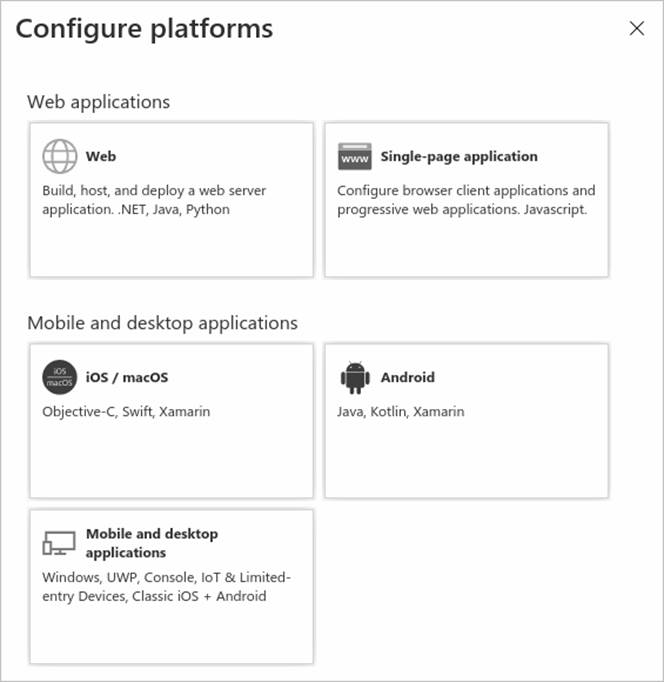
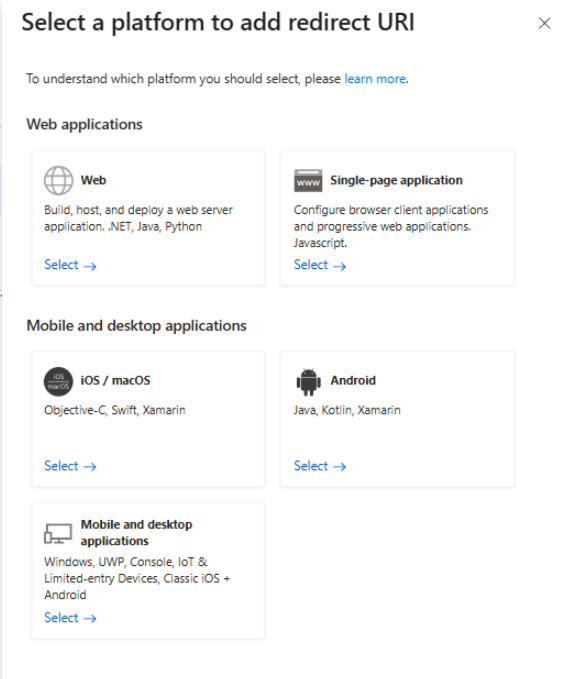
Merge pull request #209 from v-absamim/lab19-fixes
Fix Lab 19: Register an application

Pull request: Fix Lab 19: Register an application
Per-lab fix split out from `lab1-fixes`.

Scope: Lab 19 - Register an application.

diff --git a/Instructions/Labs/Lab_19_RegisterAnApplication.md b/Instructions/Labs/Lab_19_RegisterAnApplication.md
@@ -11,7 +11,7 @@ lab:
 
 # Lab 19 - Register an application
 
-### Login type = Microsoft 365 admin
+### Login type: Microsoft 365 admin
 
 #### Estimated time: 30 minutes
 
@@ -21,25 +21,25 @@ lab:
 
 Registering your application establishes a trust relationship between your app and the Microsoft identity platform. The trust is unidirectional: Your app trusts the Microsoft identity platform—not the other way around.
 
-1. Sign in to [https://entra.microsoft.com](https://entra.microsoft.com) using the provided Administrator account.
+1. Sign in to **Microsoft Entra admin center** at **`https://entra.microsoft.com`** as your Global Administrator.
 
-2. Open the portal menu and then select **Microsoft Entra ID**.
+    > **Note:** You may be prompted to complete Multi-Factor Authentication (MFA) during sign-in. Follow the prompts to configure or verify your authentication method before continuing.
 
-3. On the **Identity** menu, under **Applications**, select **App registrations.**
+1. In the left navigation, under **Entra ID**, select **App registrations**.
 
-4. On the **App registrations** page, on the menu, select **+ New registration**.
+1. On the **App registrations** page, on the menu, select **+ New registration**.
 
-5. On the **register an application** blade, register an app named **Demo app** using the default values. You do not need to enter the redirect URI.
+1. On the **Register an application** blade, register an app named **Demo app** using the default values. You do not need to enter the redirect URI.
 
     ![Screen image displaying the Register an application page with the name and default settings highlighted](./media/lp3-mod3-register-an-application.png)
 
-6. Select the **Register** button.
+1. Select the **Register** button.
 
-7. When complete, you will be directed to the **Demo app** page.
+1. When complete, you will be directed to the **Demo app** page.
 
 #### Task 2 - Configure platform settings
 
-Settings for each application type, including redirect URIs, are configured in **Platform configurations** in the Azure portal. Some platforms, like **Web** and **Single-page applications**, require you to manually specify a redirect URI. For other platforms, like mobile and desktop, you can select from redirect URIs generated for you when you configure their other settings.
+Settings for each application type, including redirect URIs, are configured in **Platform configurations** in the Microsoft Entra admin center. Some platforms, like **Web** and **Single-page applications**, require you to manually specify a redirect URI. For other platforms, like mobile and desktop, you can select from redirect URIs generated for you when you configure their other settings.
 
 To configure application settings based on the platform or device you're targeting:
 
@@ -47,11 +47,11 @@ Add and modify redirect URIs for your registered applications by configuring the
 
 1. Select your application in **App registrations** in the Microsoft Entra admin center.
 
-2. Under **Manage**, select **Authentication**.
+1. Under **Manage**, select **Authentication (Preview)**.
 
-3. Under **Platform configurations**, select **+ Add a platform**.
+1. Under **Redirect URI configurations**, select **+ Add Redirect URI**.
 
-4. In **Configure platforms**, select the tile for your application type (platform) to configure its settings.
+1. In **Select a platforms to add redirect URI**, select the tile for your application type (platform) to configure its settings.
 
     ![Screenshot of the Platform configuration pane in the Azure portal](./media/configure-platforms.png)
 
@@ -63,11 +63,11 @@ Add and modify redirect URIs for your registered applications by configuring the
     | Android| Enter the app **Package name**, which you can find in the AndroidManifest.xml file, and generate and enter the **Signature hash**. A redirect URI is generated for you when you specify these settings.|
     | Mobile and desktop applications| Select one of the **Suggested redirect URIs** or specify a **Custom redirect URI**. For desktop applications, we recommend: [https://login.microsoftonline.com/common/oauth2/nativeclient](https://login.microsoftonline.com/common/oauth2/nativeclient). Select this platform for mobile applications that aren't using the latest Microsoft Authentication Library (MSAL) or are not using a broker. Also select this platform for desktop applications.|
 
-5. Select **Web** as your platform.
+1. Select **Web** as your platform.
 
-6. Enter `https://localhost` for the Redirect URI.
+1. Enter `https://localhost` for the Redirect URI.
 
-7. Select **Configure** to complete the platform configuration.
+1. Select **Configure** to complete the platform configuration.
 
 #### Task 3 - Add credentials, certificate and client secret
 
@@ -77,23 +77,23 @@ You can add both certificates and client secrets (a string) as credentials to yo
 
 ![Screenshot of Azure portal showing the Certificates and secrets pane in app registration](./media/portal-05-app-reg-04-credentials.png)
 
-    **Note**: Sometimes called a *public key*, certificates are the recommended credential type, because as they provide a higher level of assurance than a client secret. When using a trusted public certificate, you can add the certificate using the Certificates & secrets feature. Your certificate must be one of the following file types: .cer, .pem, .crt.
+   >**Note:** Sometimes called a *public key*, certificates are the recommended credential type, because as they provide a higher level of assurance than a client secret. When using a trusted public certificate, you can add the certificate using the Certificates & secrets feature. Your certificate must be one of the following file types: .cer, .pem, .crt.
 
 
-    **Note**: The client secret, also known as an *application password*, is a string value your app can use in place of a certificate to identity itself. It's the easier of the two credential types to use. It's often used during development, but is considered less secure than a certificate. You should use certificates in your applications running in production.
+   >**Note:** The client secret, also known as an *application password*, is a string value your app can use in place of a certificate to identify itself. It's the easier of the two credential types to use. It's often used during development, but is considered less secure than a certificate. You should use certificates in your applications running in production.
 
-1. Select your application in **App registrations** in the Azure portal.
+1. Select your application in **App registrations** in the Microsoft Entra admin center.
 
-2. Select **Certificates & secrets**, then **+ New client secret**.
+1. Select **Certificates & secrets**, then select **+ New client secret**.
 
-3. Add a description for your client secret and duration
+1. Add a description for your client secret and duration
 
- - Description = SC300 lab secret
- - Duration = 90 days (3 months)
+ - Description = **SC300 lab secret**
+ - Duration = **90 days (3 months)**
 
-4. Select **Add**.
+1. Select **Add**.
 
-5. **Save the secret's value in notepad** for use in your client application code; The Certificate & Secrets page will display the new secret value. It's important you copy this value as it's only shown this one time; if you refresh your page and come back, it will only show as a masked value.
+1. **Save the secret's value in notepad** for use in your client application code; The Certificate & Secrets page will display the new secret value. It's important you copy this value as it's only shown this one time; if you refresh your page and come back, it will only show as a masked value.
 
 With your web App registered, you're ready to add the scopes that your API's code can use to provide granular permission to consumers of your API.
 
@@ -103,19 +103,19 @@ The code in a client application requests permission to perform operations defin
 
 First, follow these steps to create an example scope named Employees.Read.All:
 
-1. Select **Identity**, then **Application** and finally select **App registrations**, and then select your API's app registration.
+1. Select your application in **App registrations** in the Microsoft Entra admin center.
 
-2. Select **Expose an API**, then **+ Add a scope**.
+1. Under **Manage**, select **Expose an API**, and then select **+ Add a scope**.
 
     ![An app registration's Expose an API pane in the Azure portal](./media/portal-02-expose-api.png)
 
-3. You're prompted to set an **Application ID URI**. Set the value to **api://DemoAppAPI**
+1. You're prompted to set an **Application ID URI**. Set the value to **api://DemoAppAPI**
 
-  - Note - The App ID URI acts as the prefix for the scopes you'll reference in your API's code, and it must be globally unique. You can use the default value provided, which is in the form api://<application-client-id\>, or specify a more readable URI like `https://contoso.com/api`.
+    >**Note:** The App ID URI acts as the prefix for the scopes you'll reference in your API's code, and it must be globally unique. You can use the default value provided, which is in the form api://<application-client-id\>, or specify a more readable URI like `https://contoso.com/api`.
 
-4. Select **Save and continue**.
+1. Select **Save and continue**.
 
-5. Next, specify the scope's attributes in the **Add a scope pane**. For this walk-through, use the values in the 3rd column - **Value**.
+1. Next, specify the scope's attributes in the **Add a scope pane**. For this walk-through, use the values in the 3rd column - **Value**.
 
     | Field| Description| Value |
     | :--- | :--- | :--- |
@@ -126,11 +126,11 @@ First, follow these steps to create an example scope named Employees.Read.All:
     | User consent display name| A short description of the scope's purpose. Shown to users only if you set Who can consent to Admins and users.| Read-only access to your employee records|
     | User consent description| A more detailed description of the permission granted by the scope. Shown to users only if you set Who can consent to Admins and users.| Allow the application to have read-only access to your employee data.|
 
-7. Set the **State** to **Enabled**, and then select **Add scope**.
+1. Set the **State** to **Enabled**, and then select **Add scope**.
 
-8. (Optional) To suppress prompting for consent by users of your app to the scopes you've defined, you can *pre-authorize* the client application to access your web API. Pre-authorize *only* those client applications you trust since your users won't have the opportunity to decline consent.
+1. (Optional) To suppress prompting for consent by users of your app to the scopes you've defined, you can *pre-authorize* the client application to access your web API. Pre-authorize *only* those client applications you trust since your users won't have the opportunity to decline consent.
 
-   1. Under **Authorized client applications**, select **Add a client application.**
+   1. Under **Authorized client applications**, select **Add a client application**.
 
    2. Enter the **Application (client) ID** of the client application you want to pre-authorize. For example, that of a web application you've previously registered.
 
@@ -153,19 +153,22 @@ Next, add another example scope named Employees.Write.All that only admins can
     | User consent display name| None (leave empty)|
     | User consent description| None (leave empty)|
 
-2. Make sure the State is set to **Enabled** then select **Add Scope**.
+1. Make sure the State is set to **Enabled** then select **Add Scope**.
 
-  - **Note**: If you successfully added both example scopes described in the previous sections, they'll appear in the **Expose an API** pane of your web API's app registration, similar to this image:
+    >**Note:** If you successfully added both example scopes described in the previous sections, they'll appear in the **Expose an API** pane of your web API's app registration, similar to this image:
 
   ![Screenshot of the Expose an API pane showing two exposed scopes.](./media/portal-03-scopes-list.png)
 
   As shown in the image, a scope's full string is the concatenation of your web API's **Application ID URI** and the scope's **Scope name**.
 
-  **Note**: For example, if your web API's application ID URI is `https://contoso.com/api` and the scope name is Employees.Read.All, the full scope is: `https://contoso.com/api/Employees.Read.All`
+   >**Note:** For example, if your web API's application ID URI is `https://contoso.com/api` and the scope name is Employees.Read.All, the full scope is: `https://contoso.com/api/Employees.Read.All`
 
-  **Note**: Next, you will configure a client app's registration with access to your web API and the scopes you defined by following the steps above.
+   >**Note:** Next, you will configure a client app's registration with access to your web API and the scopes you defined by following the steps above.
   Once a client app registration is granted permission to access your web API, the client can be issued an OAuth 2.0 access token by the Microsoft identity platform. When the client calls the web API, it presents an access token whose scope (scp) claim is set to the permissions you've specified in the client's app registration. You can expose additional scopes later as necessary. Consider that your web API can expose multiple scopes associated with several operations. Your resource can control access to the web API at runtime by evaluating the scope (scp) claim(s) in the OAuth 2.0 access token it receives.
 
+### Exercise summary
+
+In this exercise, you registered an application in Microsoft Entra ID and exposed an API by defining application ID URI and scopes. This exercise showed how applications are represented in Microsoft Entra ID and how they expose permissions to clients.
 
 ### Exercise 2 - Manage app registration with a custom role
 
@@ -173,25 +176,23 @@ Next, add another example scope named Employees.Write.All that only admins can
 
 You need to create a new custom role for app management. This new role should be limited to only the specific permissions required to perform credential management.
 
-1. Sign in to the [https://entra.microsoft.com](https://entra.microsoft.com) using a Global administrator account.
+1. Sign in to **Microsoft Entra admin center** at **`https://entra.microsoft.com`** using a Global administrator account.
 
-2. Open the portal menu and then select **Microsoft Entra ID**.
+1. In the left navigation, under **Entra ID**, select **Roles & admins**.
 
-3. On the lefthand menu, under **Identity**, select **Roles and admins**.
-
-4. Then select **Roles & admins** item, then select **+ New custom role**.
+1. Select **+ New custom role** from the top menu.
 
     ![Screen image displaying the Roles and administrators blade with the New custom role menu option highlighted](./media/lp3-mod1-new-custom-role.png)
 
-5. In the New custom role dialog, on the Basics tab, in the name box, enter **My custom app role**.
+1. In the New custom role dialog, on the Basics tab, in the name box, enter **My custom app role**.
 
-6. Review the remaining options and then select **Next**.
+1. Review the remaining options and then select **Next**.
 
-7. On the Permissions tab, review the available permissions.
+1. On the Permissions tab, review the available permissions.
 
-8. In the **Search by permission name or description** box, enter **credentials**.
+1. In the **Search by permission name or description** box, enter **credentials**.
 
-9. In the results, select the **Manage** permissions and then select **Next**.
+1. In the results, select the **Manage** permissions and then select **Next**.
 
     ```
        microsoft.directory/servicePrincipals/managePasswordSingleSignOnCredentials  -   Manage password single sign-on credentials or service principals.
@@ -200,9 +201,12 @@ You need to create a new custom role for app management. This new role should be
 
     ![Screen image displaying the New custom role Permissions tab with search, manage permissions, and Next highlighted](./media/lp3-mod1-custom-role-permissions.png)
 
-    **Why pick those two** - For application provisionsing these two items are the bare minimum permissions needed to enable and enforce single sign-on for the application or service principal being created; and be able to assign the enterise application to a set of users or groups.  Other permissions could also be granted.  You can get a full list of available permissions at `https://docs.microsoft.com/azure/active-directory/roles/custom-enterprise-app-permissions`.
+    **Why pick those two** - For application provisioning these two items are the bare minimum permissions needed to enable and enforce single sign-on for the application or service principal being created; and be able to assign the enterprise application to a set of users or groups.  Other permissions could also be granted.  You can get a full list of available permissions at `https://docs.microsoft.com/azure/active-directory/roles/custom-enterprise-app-permissions`.
 
-10. Select **Next**.
+1. Select **Next**.
 
-11. Review the changes and then select **Create**.
+1. Review the changes and then select **Create**.
 
+### Exercise summary
+
+In this exercise, you created a custom directory role with a focused set of credential-management permissions. This exercise showed how custom roles support fine-grained, least-privilege app governance.